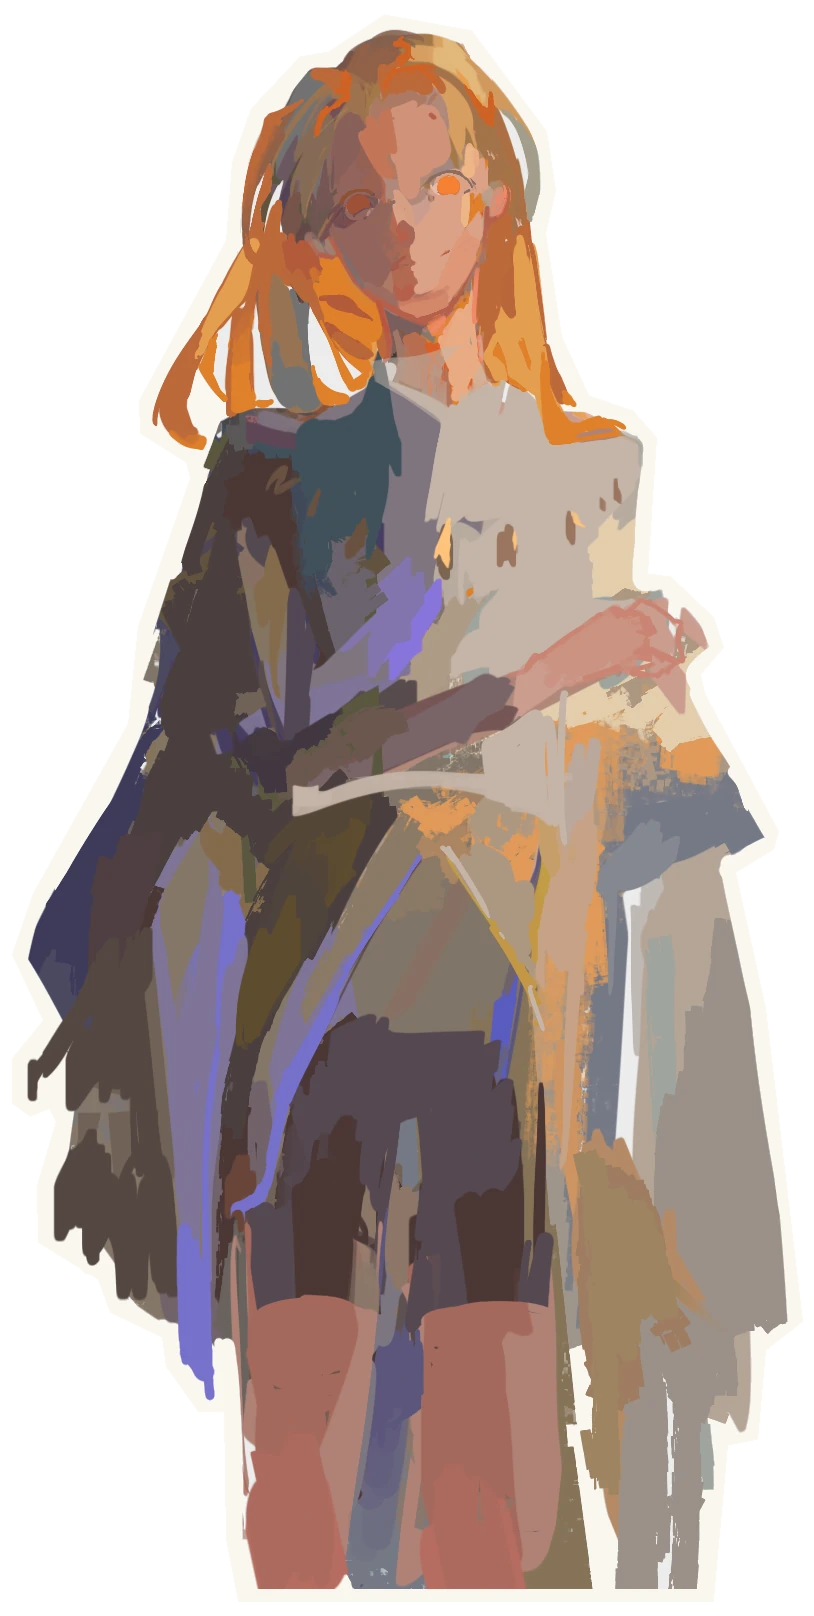
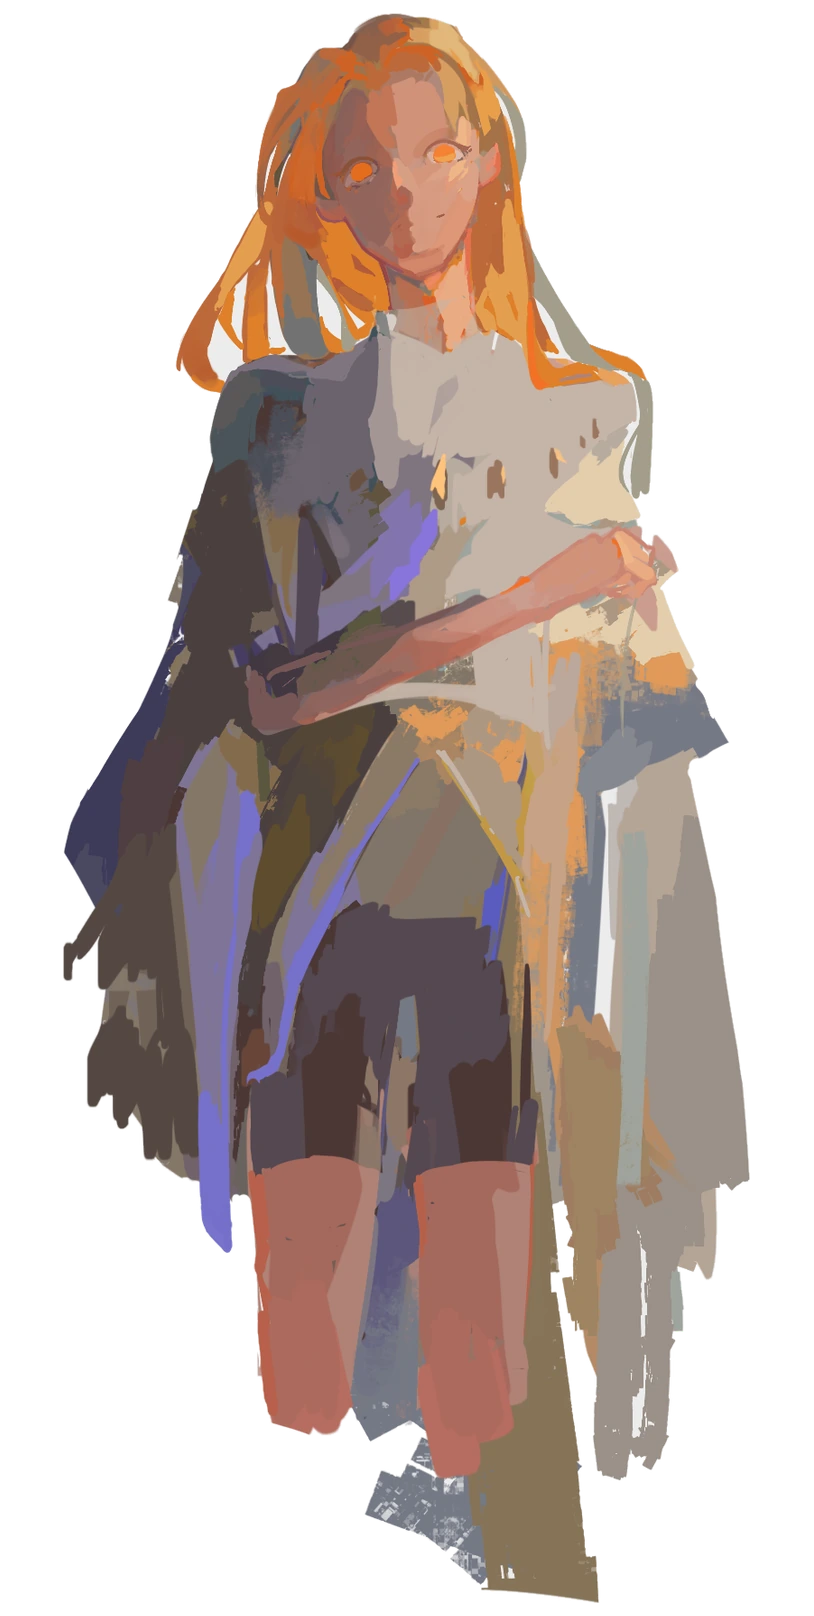
Aurelia: new standing portrait
Claude-Session: https://claude.ai/code/session_01LopHKLE1Hy6BZKLVUBMfVV

diff --git a/characters.html b/characters.html
@@ -647,7 +647,7 @@ const PEOPLE = [
     ]
   },
   {
-    id:"aurelia", name:"Aurelia", full:"Aurelia Helios", img:"images/aurelia-fig.webp", fig:[814,1616], accent:0xffd08e,
+    id:"aurelia", name:"Aurelia", full:"Aurelia Helios", img:"images/aurelia-fig.webp?v=2", fig:[814,1616], accent:0xffd08e,
     glance:[
       ["家族","Helios"],
       ["MBTI","ENTP"],
